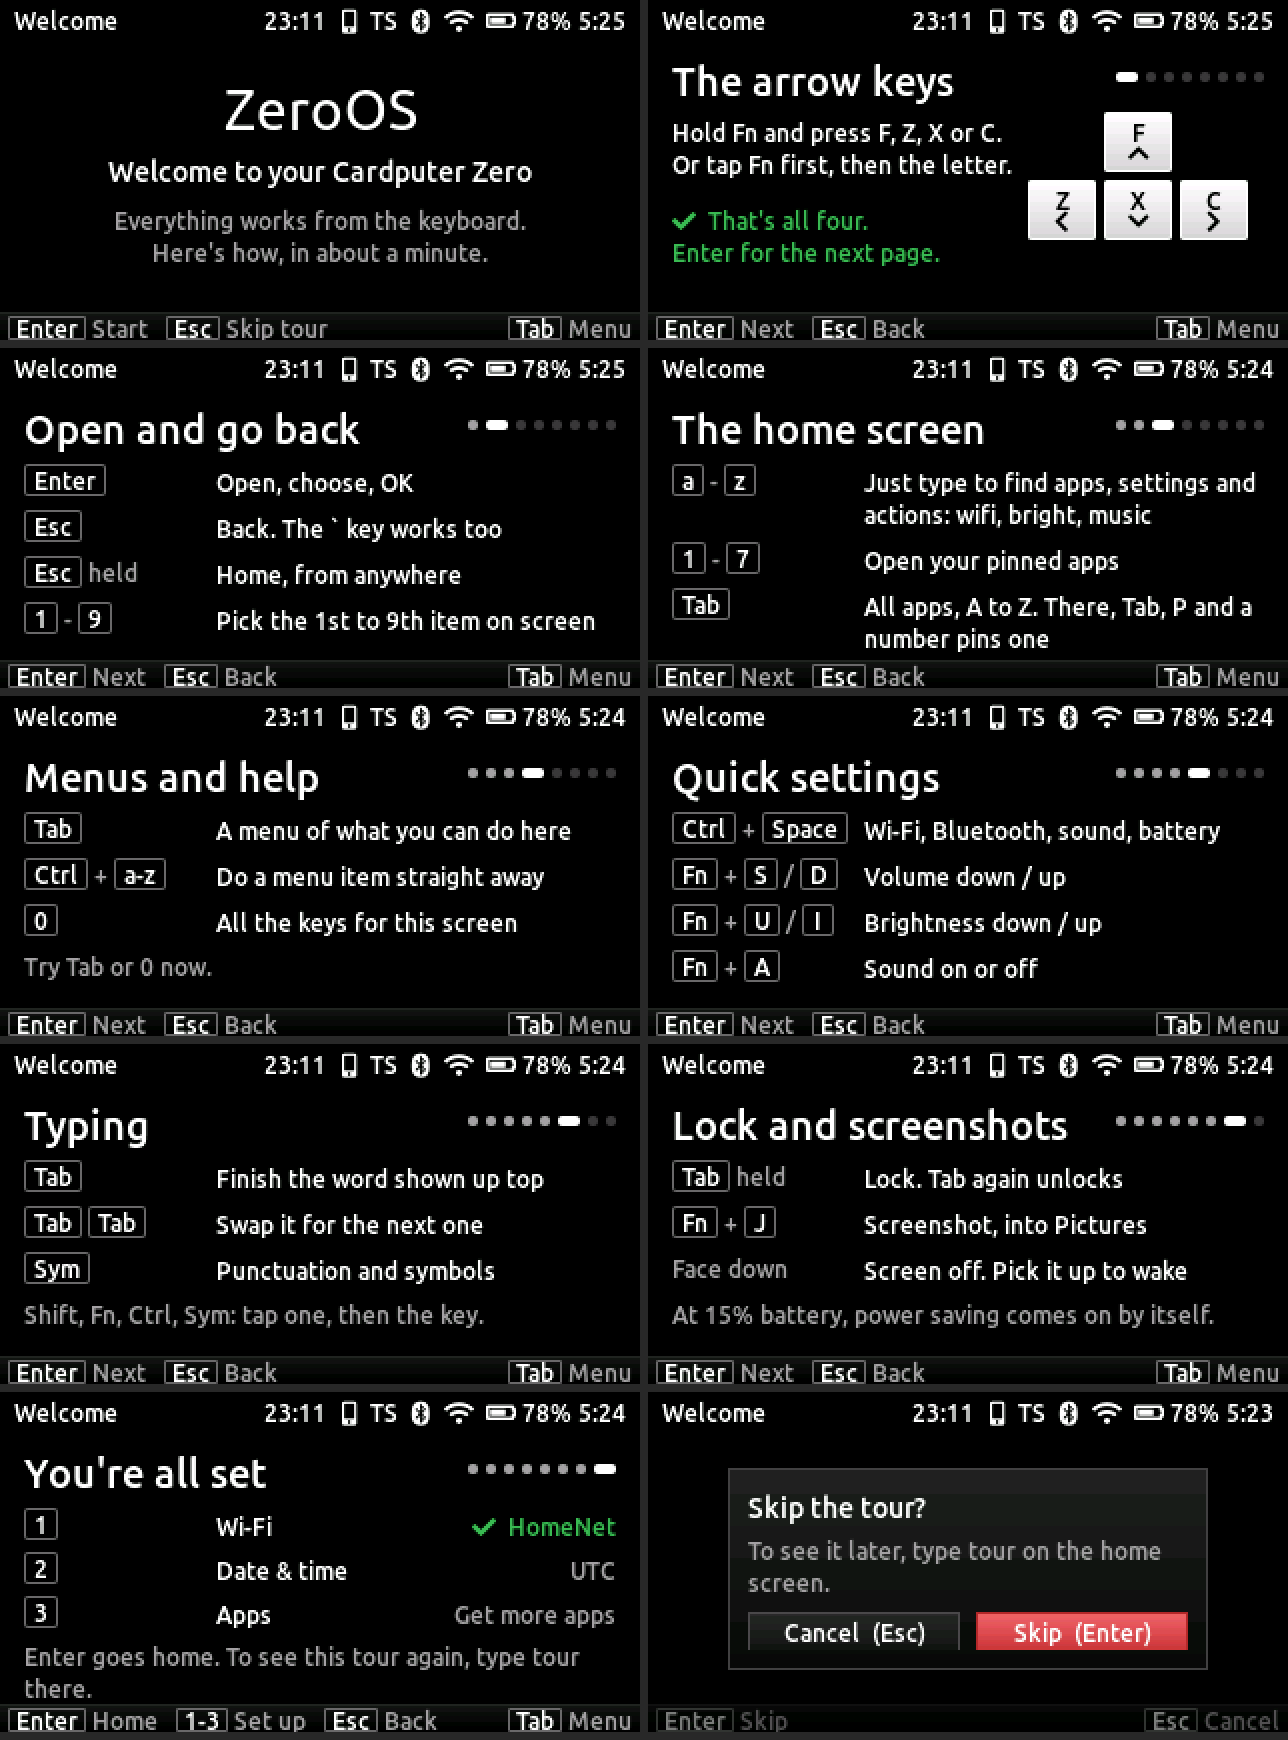
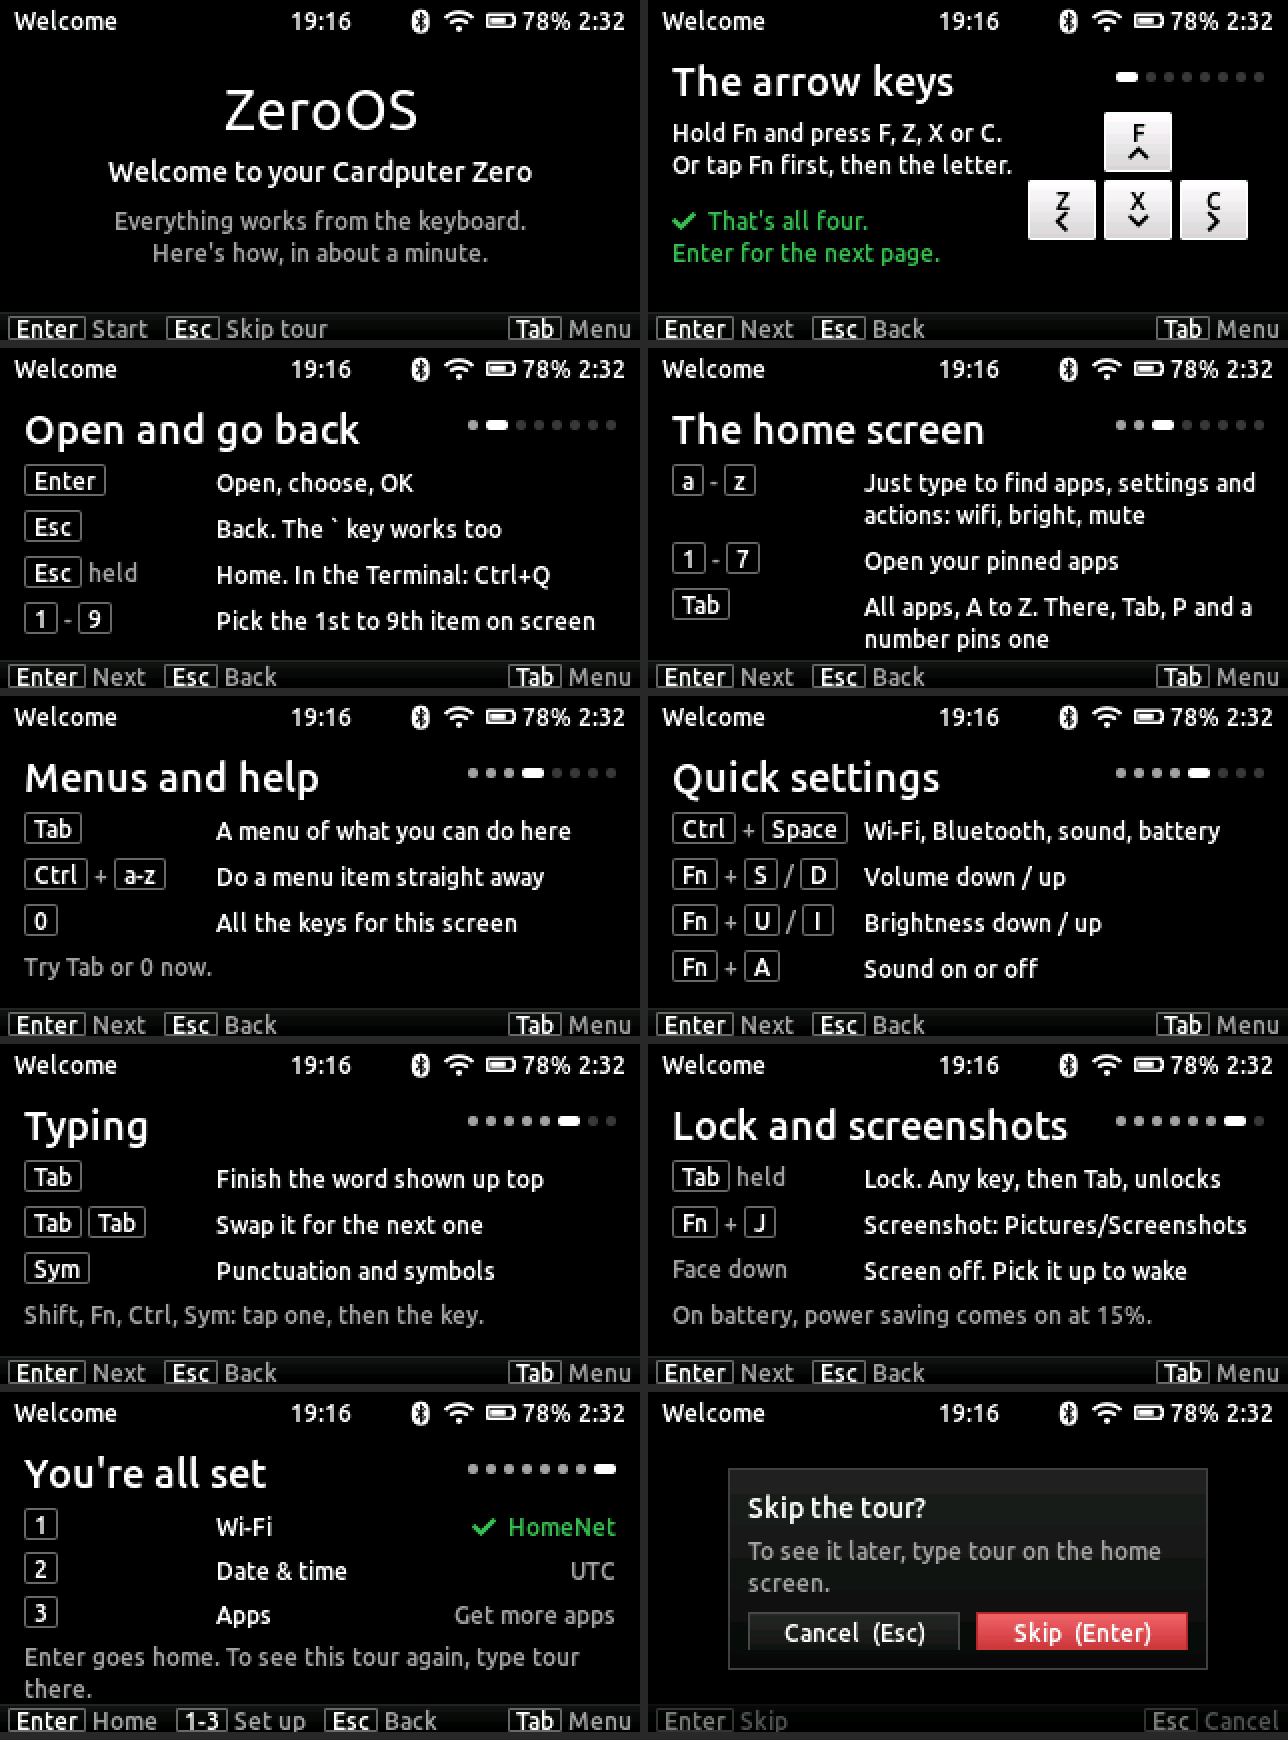
Welcome tour: say only what the code does (#123)
- Home page: search examples "wifi, bright, mute". "music" finds only
  Media, which a new device doesn't have, so it found nothing.
- Lock page: the first key only wakes the screen; then Tab unlocks
  ("Any key, then Tab, unlocks", not "Tab again unlocks").
- Holding Esc does nothing in the Terminal, which has the keys to
  itself: the tour says Ctrl+Q leaves it (when Terminal is installed).
- The Face down row shows only with a motion sensor (not on the Lite)
  and as Settings has it; without pickup wake it says just "Screen off".
- Screenshots go to Pictures/Screenshots; power saving at 15% is on
  battery only.
- No "Skip tour" on the last page: there is nothing left to skip.
- Every changed line fits on one line, checked by rendering each page;
  docs/ux/welcome-tour.png redone from the headless build.
- KEYS.md, UX.md, README: the same corrections (Esc held and Ctrl+Space
  not in the Terminal, M5Stack apps hold 3 s, "music" needs Media), and
  Space turns the tour's page.

Claude-Session: https://claude.ai/code/session_01C4Fn58kRLoZgJ3Y4b7hVxu

diff --git a/shell/src/ui/welcome.cpp b/shell/src/ui/welcome.cpp
@@ -10,6 +10,7 @@
 
 #include "hal/hal.h"
 #include "platform/keys.h"
+#include "ui/power.h"
 #include "ui/prefs.h"
 #include "ui/shell.h"
 #include "ui/theme.h"
@@ -221,7 +222,8 @@ private:
             a.push_back({"Next", 'n', "Enter", [this] { next(); }});
         }
         a.push_back({"Back", 'b', "Esc", [this] { show(page_ - 1); }});
-        a.push_back({"Skip tour", 's', nullptr, [this] { skip(); }});
+        // On the last page there is nothing left to skip.
+        if (page_ != kDone) a.push_back({"Skip tour", 's', nullptr, [this] { skip(); }});
         shell_set_actions(std::move(a));
     }
 
@@ -304,14 +306,19 @@ private:
         lv_obj_t* r = rows(root_);
         row(r, "[Enter]", "Open, choose, OK");
         row(r, "[Esc]", "Back. The ` key works too");
-        row(r, "[Esc] held", "Home, from anywhere");
+        // The Terminal has the screen and the keys to itself (Shell::
+        // hold_home does nothing there): tmux's Ctrl+Q is the way out. One
+        // line each: a fifth line would push the last row under the bar.
+        row(r, "[Esc] held", app_find("terminal") ? "Home. In the Terminal: Ctrl+Q" : "Home, from anywhere");
         row(r, "[1] - [9]", "Pick the 1st to 9th item on screen");
     }
 
     void home() {
         title("The home screen");
         lv_obj_t* r = rows(root_);
-        row(r, "[a] - [z]", "Just type to find apps, settings and actions: wifi, bright, music");
+        // Examples that find something on every device: no installable app
+        // ("music" finds only Media, which isn't on a new device).
+        row(r, "[a] - [z]", "Just type to find apps, settings and actions: wifi, bright, mute");
         row(r, "[1] - [7]", "Open your pinned apps");
         row(r, "[Tab]", "All apps, A to Z. There, Tab, P and a number pins one");
     }
@@ -346,10 +353,17 @@ private:
     void lock() {
         title("Lock and screenshots");
         lv_obj_t* r = rows(root_);
-        row(r, "[Tab] held", "Lock. Tab again unlocks");
-        row(r, "[Fn] + [J]", "Screenshot, into Pictures");
-        row(r, "Face down", "Screen off. Pick it up to wake");
-        note(r, "At 15% battery, power saving comes on by itself.");
+        // The key that wakes the screen does nothing else (Power::on_key);
+        // then the lock screen takes only Tab. One line each, or the note
+        // below goes off the bottom.
+        row(r, "[Tab] held", "Lock. Any key, then Tab, unlocks");
+        row(r, "[Fn] + [J]", "Screenshot: Pictures/Screenshots");
+        // Only with a motion sensor (not on the Lite), and as Settings has it.
+        // hal().imu() is read each tick, long before this page is reached.
+        if (hal().imu().available && power().sleep_face_down())
+            row(r, "Face down", power().wake_on_pickup() ? "Screen off. Pick it up to wake" : "Screen off");
+        // Power::tick: only on battery power; off again charging past 20%.
+        note(r, "On battery, power saving comes on at 15%.");
     }
 
     void done() {

diff --git a/shell/src/ui/welcome.h b/shell/src/ui/welcome.h
@@ -3,8 +3,8 @@
 // first time it starts for a user; after that, "tour" in the home search
 // opens it again.
 //
-//   Enter, Right   next page       Esc, Left   previous page (on the first: skip)
-//   last page      1 Wi-Fi, 2 Date & time, 3 Apps; Enter goes home
+//   Enter, Right, Space   next page       Esc, Left   previous page (on the first: skip)
+//   last page             1 Wi-Fi, 2 Date & time, 3 Apps; Enter goes home
 //
 // The page with the arrows is a practice page: there the arrows light their
 // keys instead of turning the page.

diff --git a/docs/KEYS.md b/docs/KEYS.md
@@ -14,7 +14,7 @@ The first time ZeroOS starts it shows a short tour of these keys instead of the 
 
 | Key | What it does in the tour |
 | --- | --- |
-| Enter, Right | Next page |
+| Enter, Right, Space | Next page |
 | Esc, Left | Previous page. On the first page, Esc asks whether to skip the tour |
 | Arrows, on the arrow keys page | Light the key you pressed, to practise |
 | 1, 2, 3, on the last page | Open Wi-Fi, Date & time or Apps. Esc there comes back to the tour |
@@ -27,11 +27,11 @@ after updating.
 
 | Key | What it does |
 | --- | --- |
-| Esc | Back. Hold it for a moment to go to the home screen from anywhere, even from a text box (HOME on the key) |
+| Esc | Back. Hold it for a moment to go to the home screen from anywhere, even from a text box (HOME on the key). Not in the Terminal, which has the keys to itself: Ctrl+Q or `exit` leaves it. In an M5Stack app, hold Esc for 3 seconds |
 | Tab, held | Lock: the screen goes off at once (LOCK on the key). The next key wakes it to the lock screen (the time, the date and what is playing, over a photograph), and Tab unlocks. Other keys on the lock screen do nothing, and neither the waking key nor Tab does anything else |
 | Fn + J (PRSC) | Screenshot: saved as a PNG in ~/Pictures/Screenshots |
 | Fn + H (HELP) | Show every key for this screen, the same as 0 |
-| Ctrl + Space | Open or close the taskbar panel, from anywhere, even while typing |
+| Ctrl + Space | Open or close the taskbar panel, from anywhere but the Terminal, even while typing |
 | 1 to 9 | Pick the 1st to 9th item on screen: the same as moving to it and pressing Enter |
 | 0 | Show every key for this screen. On screens not moved over yet, show which number is which |
 
@@ -83,7 +83,7 @@ Home is a search box, seven pinned apps and the apps you opened last.
 
 | Key | What it does |
 | --- | --- |
-| Letters | Search apps, settings and actions ("wifi", "bright", "mute", "music", "bt"). The best match is first, and Enter opens it |
+| Letters | Search apps, settings and actions ("wifi", "bright", "mute", "bt"; "music" once Media is installed). The best match is first, and Enter opens it |
 | 1 to 7 | Open a pinned app. While searching, 1 to 9 pick a result |
 | Arrows (Fn + F/Z/X/C) | Move between the pinned apps and the Recent list |
 | Esc | Clear the search |

diff --git a/README.md b/README.md
@@ -182,7 +182,7 @@ keyboard the arrows are Fn + F, Z, X and C.
 
 | Key | What it does |
 | --- | --- |
-| Esc | Back. Hold it to go to the home screen from anywhere |
+| Esc | Back. Hold it to go to the home screen from anywhere but the Terminal (Ctrl+Q leaves that) |
 | Ctrl + Space | Taskbar panel: Wi-Fi, Bluetooth, volume, brightness, battery |
 | 1 to 9 | Pick an item. In a list, the 1st to 9th row, like a phone menu (when you're not typing) |
 | 0 | Show the keys for the current screen |
@@ -198,7 +198,7 @@ On the home screen:
 
 | Key | What it does |
 | --- | --- |
-| Letters | Search apps, settings and actions ("wifi", "bright", "mute", "music", "bt"). The best match is first, and Enter opens it |
+| Letters | Search apps, settings and actions ("wifi", "bright", "mute", "bt"; "music" once Media is installed). The best match is first, and Enter opens it |
 | 1 to 7 | Open the pinned apps. While searching, 1 to 9 pick a result |
 | Esc | Clear the search |
 | Tab | Open All apps (every app, A to Z). There, Tab on an app, P, then 1 to 7 pins it on that key |

diff --git a/docs/UX.md b/docs/UX.md
@@ -39,7 +39,7 @@ These work on every screen, in every app, including in a text box.
 | --- | --- |
 | **Enter** | The main action on the item in focus (open, play, send, toggle) |
 | **Esc** (or \`) | Back one step. At an app's first screen, back to home. On home, clear the search |
-| **Hold Esc** (0.6 s) | Home, from anywhere |
+| **Hold Esc** (0.6 s) | Home, from anywhere but the Terminal (Ctrl+Q leaves it) and M5Stack apps (hold 3 s there) |
 | **Tab** | The menu: every action for the item in focus and the screen |
 | **Hold Tab** (0.6 s) | Lock: screen off now (LOCK on the key). The next key wakes it to the lock screen (the time, the date and what is playing); Tab unlocks, other keys do nothing |
 | **Fn + J** (PRSC) | Screenshot to ~/Pictures/Screenshots, from anywhere, even the Terminal |
